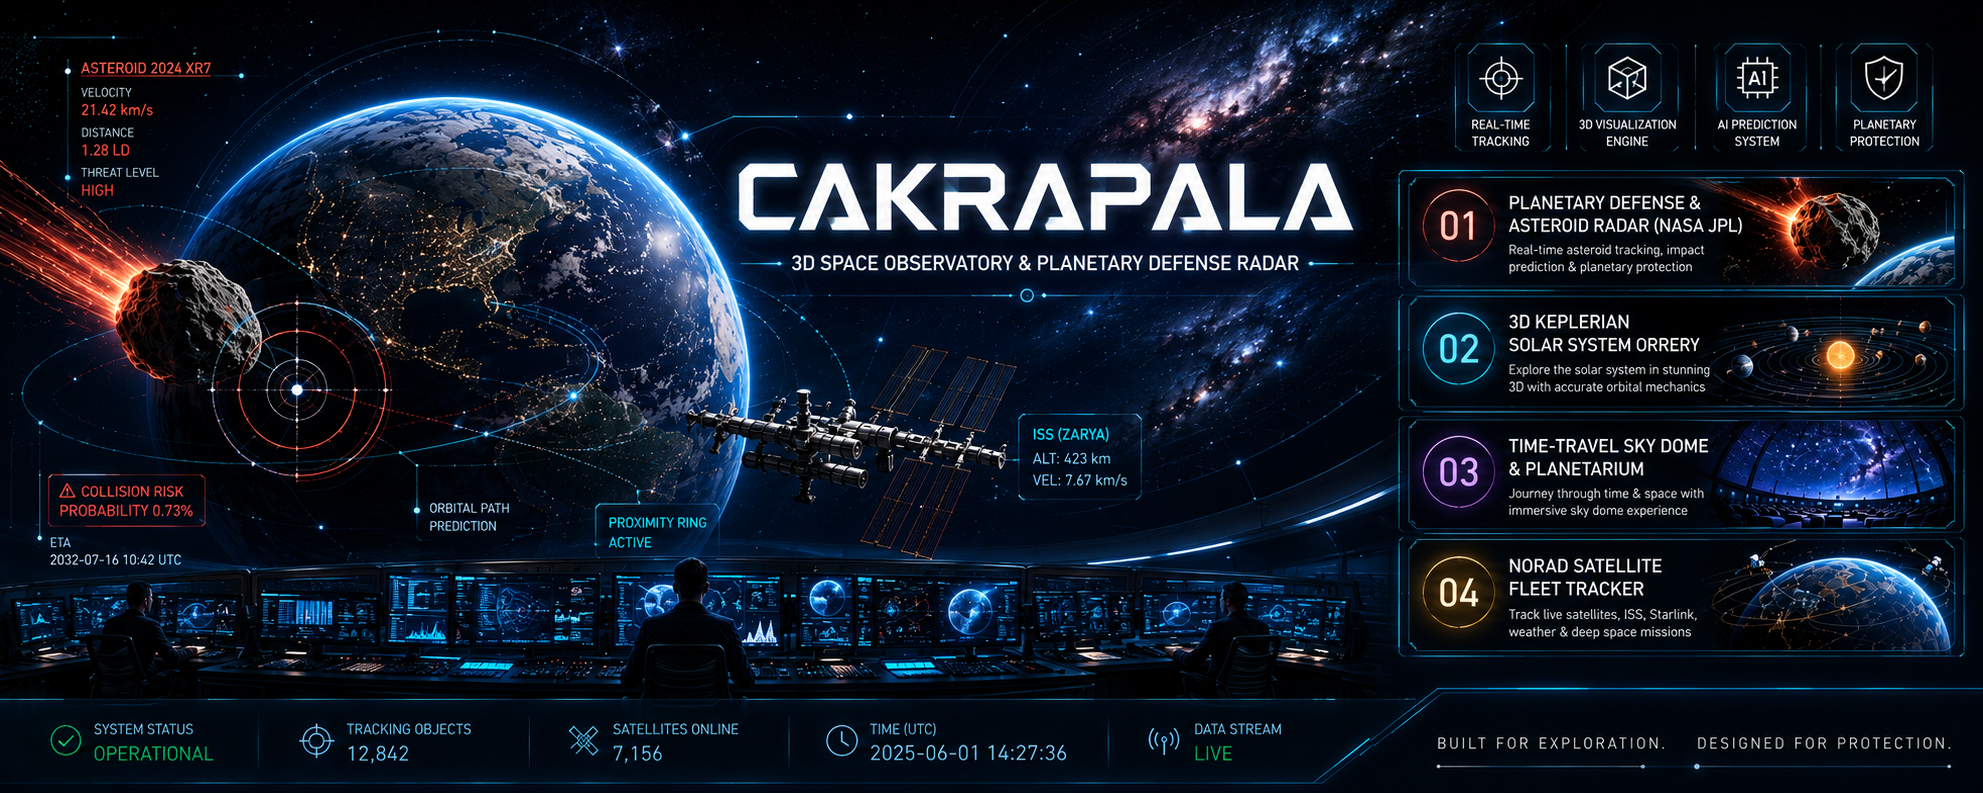
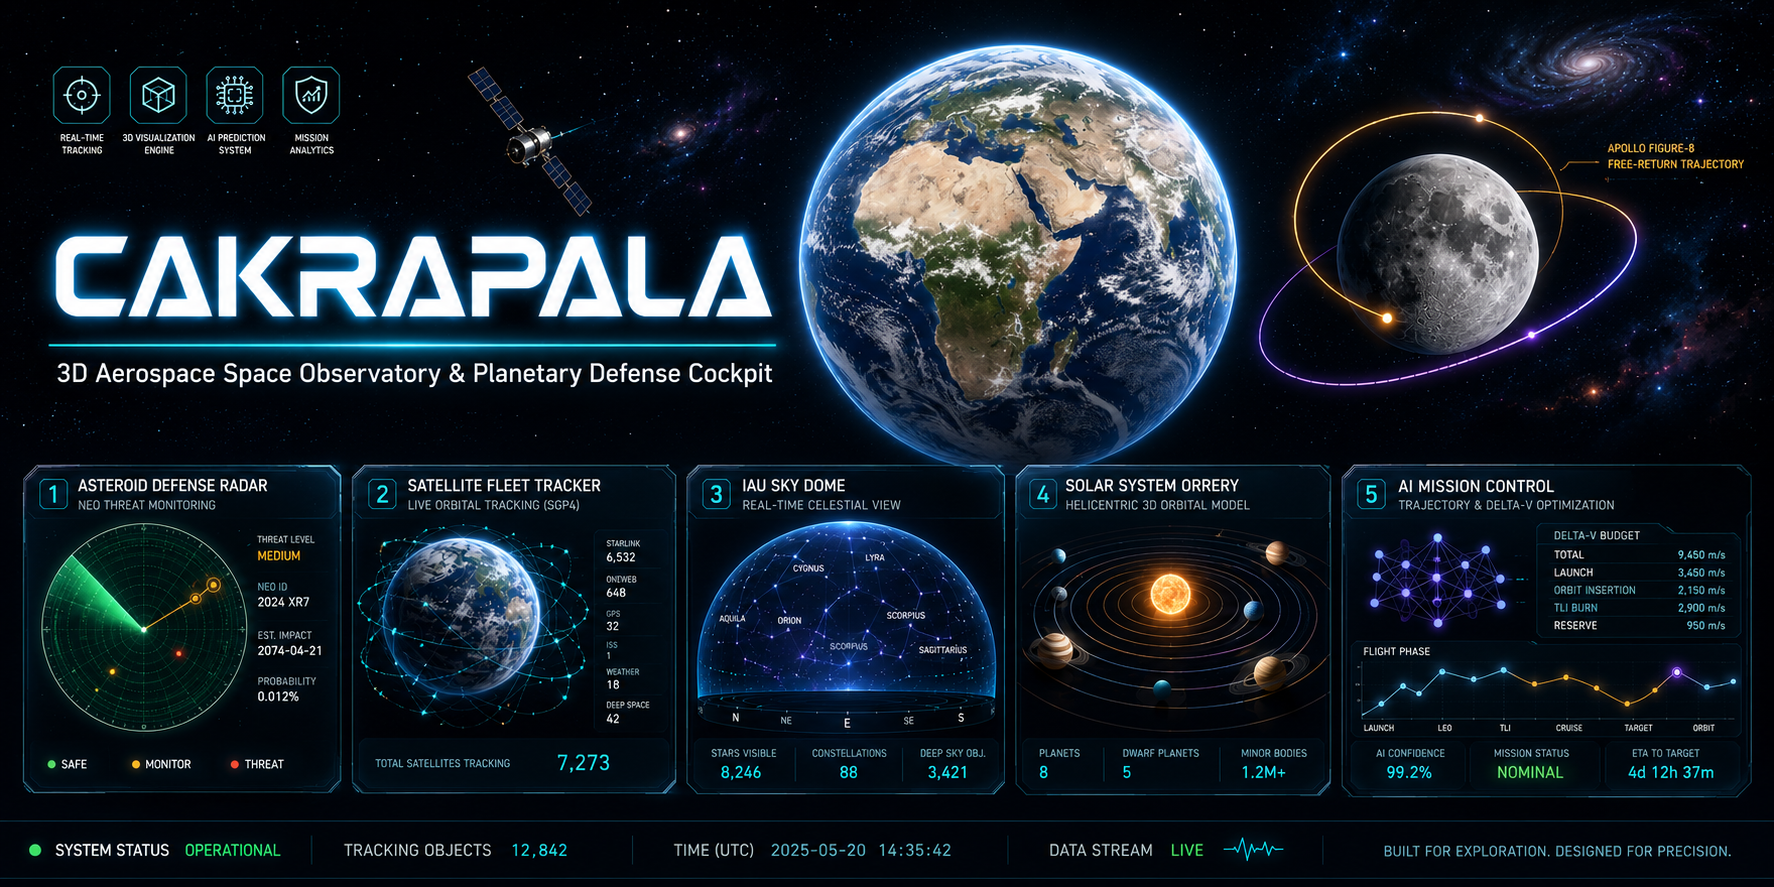
fix(mission-control): sync 3D Earth trajectory colors with altitude geometry and fix Lunar FIT ALL camera framing

diff --git a/components/mission-control/MissionTheater.tsx b/components/mission-control/MissionTheater.tsx
@@ -53,14 +53,14 @@ interface MissionTheaterProps {
 
 // ── Color map by trajectory phase ────────────────────────────────────────────
 const PHASE_COLORS: Record<string, { color: number; hex: string; label: string }> = {
-  launch: { color: 0x00f0ff, hex: "#00f0ff", label: "Launch & Ascent" },
-  ascent: { color: 0x00f0ff, hex: "#00f0ff", label: "Ascent Gravity Turn" },
-  parking_orbit: { color: 0x38bdf8, hex: "#38bdf8", label: "Target Orbit (LEO)" },
-  tli: { color: 0xf59e0b, hex: "#f59e0b", label: "TLI Burn" },
+  launch: { color: 0xef4444, hex: "#ef4444", label: "Pad Liftoff & Atmospheric Ascent" }, // Red (0km Liftoff)
+  ascent: { color: 0xf59e0b, hex: "#f59e0b", label: "Gravity Turn Pitch" },               // Amber (120km Pitchover)
+  parking_orbit: { color: 0x06b6d4, hex: "#06b6d4", label: "Circular Target Orbit" },    // Cyan (550km Circular Orbit)
+  tli: { color: 0xf97316, hex: "#f97316", label: "TLI Burn" },
   outbound: { color: 0xf97316, hex: "#f97316", label: "Outbound TLI Transfer" },
-  lunar_flyby: { color: 0xd946ef, hex: "#d946ef", label: "Perilune Lunar Flyby" },
-  return: { color: 0x6366f1, hex: "#6366f1", label: "Earth Free-Return Leg" },
-  reentry_interface: { color: 0xef4444, hex: "#ef4444", label: "Reentry Corridor" },
+  lunar_flyby: { color: 0xc084fc, hex: "#c084fc", label: "Perilune Lunar Flyby" },
+  return: { color: 0x38bdf8, hex: "#38bdf8", label: "Earth Free-Return Leg" },
+  reentry_interface: { color: 0x60a5fa, hex: "#60a5fa", label: "Reentry Corridor" },
 };
 
 const EARTH_RADIUS_VIS = 6.378137; // 6,378 km in Scene units (1 unit = 1,000 km)
@@ -125,8 +125,26 @@ export default function MissionTheater({
           camera.position.set(0, 26, 0.1);
           controls.target.set(0, 0, 0);
         } else {
-          camera.position.set(190, 500, 0.1);
-          controls.target.set(190, 0, 0);
+          // Lunar polar view: compute bounding center and look down from above
+          const pts: THREE.Vector3[] = [new THREE.Vector3(0, 0, 0)];
+          if (cand && cand.trajectory.length > 0) {
+            cand.trajectory.forEach((pt) => {
+              const rp = eciKmToRendererPosition(pt.positionEciKm);
+              pts.push(new THREE.Vector3(rp.x, rp.y, rp.z));
+            });
+          }
+          if (moonGroupRef.current) {
+            pts.push(moonGroupRef.current.position.clone());
+          }
+          const box = new THREE.Box3().setFromPoints(pts);
+          const center = new THREE.Vector3();
+          box.getCenter(center);
+          const size = new THREE.Vector3();
+          box.getSize(size);
+          const maxDim = Math.max(size.x, size.y, size.z, 60);
+
+          camera.position.set(center.x, center.y + maxDim * 1.5, center.z + 0.1);
+          controls.target.copy(center);
         }
       } else if (mode === "Focus Moon Encounter" && moonGroupRef.current) {
         const mPos = moonGroupRef.current.position;
@@ -154,13 +172,27 @@ export default function MissionTheater({
           }
           controls.target.set(0, 0, 0);
         } else {
-          // Lunar mission framing
-          const moonDist = moonKm
-            ? Math.sqrt(moonKm.x ** 2 + moonKm.y ** 2 + moonKm.z ** 2) * RENDERER_SCALE
-            : 384;
-          const midX = moonDist * 0.5;
-          camera.position.set(midX, moonDist * 0.55, moonDist * 0.95);
-          controls.target.set(midX, 0, 0);
+          // Lunar mission framing: dynamically calculate bounding center of Earth + Moon + Trajectory
+          const pts: THREE.Vector3[] = [new THREE.Vector3(0, 0, 0)];
+          if (cand && cand.trajectory.length > 0) {
+            cand.trajectory.forEach((pt) => {
+              const rp = eciKmToRendererPosition(pt.positionEciKm);
+              pts.push(new THREE.Vector3(rp.x, rp.y, rp.z));
+            });
+          }
+          if (moonGroupRef.current) {
+            pts.push(moonGroupRef.current.position.clone());
+          }
+          const box = new THREE.Box3().setFromPoints(pts);
+          const center = new THREE.Vector3();
+          box.getCenter(center);
+          const size = new THREE.Vector3();
+          box.getSize(size);
+          const maxDim = Math.max(size.x, size.y, size.z, 60);
+
+          // Position camera pulled back at an elevated angle to frame Earth, Moon, and entire Figure-8 loop perfectly
+          camera.position.set(center.x, center.y + maxDim * 0.60, center.z + maxDim * 1.10);
+          controls.target.copy(center);
         }
       }
 

diff --git a/components/mission-control/FlightPhaseGraphic.tsx b/components/mission-control/FlightPhaseGraphic.tsx
@@ -91,26 +91,37 @@ export default function FlightPhaseGraphic({
       // Satellite launch phases
       const defaultSatPhases: ParsedPhase[] = [
         {
-          title: "Ascent Gravity Turn",
+          title: "Pad Liftoff & Ascent",
+          colorName: "Red",
+          hex: "#ef4444",
+          bgHex: "rgba(239, 68, 68, 0.12)",
+          borderHex: "rgba(239, 68, 68, 0.35)",
+          textHex: "text-red-400",
+          description:
+            "Initial vertical liftoff from launch pad penetrating through the dense lower atmosphere.",
+          durationPercent: 20,
+        },
+        {
+          title: "Gravity Turn Pitch",
+          colorName: "Amber",
+          hex: "#f59e0b",
+          bgHex: "rgba(245, 158, 11, 0.12)",
+          borderHex: "rgba(245, 158, 11, 0.35)",
+          textHex: "text-amber-400",
+          description:
+            "Pitch-over maneuver transitioning to horizontal velocity through upper atmosphere.",
+          durationPercent: 45,
+        },
+        {
+          title: "Circular Insertion Orbit",
           colorName: "Cyan",
           hex: "#06b6d4",
           bgHex: "rgba(6, 182, 212, 0.12)",
           borderHex: "rgba(6, 182, 212, 0.35)",
           textHex: "text-cyan-300",
           description:
-            "Initial vertical liftoff transitioning smoothly to a gravity turn pitching toward target launch azimuth.",
+            `Target circular orbit ring at ${candidate.trajectory?.[candidate.trajectory.length - 1]?.altitudeKm || 550} km altitude maintaining continuous orbital speed.`,
           durationPercent: 35,
-        },
-        {
-          title: "Orbit Insertion & Circularization",
-          colorName: "Blue",
-          hex: "#38bdf8",
-          bgHex: "rgba(56, 189, 248, 0.12)",
-          borderHex: "rgba(56, 189, 248, 0.35)",
-          textHex: "text-sky-400",
-          description:
-            "Upper-stage burn circularizing into target orbit altitude maintaining continuous velocity.",
-          durationPercent: 65,
         },
       ];
 

diff --git a/lib/mission-control/aiMissionAnalysis.ts b/lib/mission-control/aiMissionAnalysis.ts
@@ -65,10 +65,13 @@ export function generateDeterministicMissionAnalysis(
   const routeExplanation: string[] = [];
   if (isSatellite) {
     routeExplanation.push(
-      "Ascent Gravity Turn (Cyan): Initial vertical liftoff transitioning smoothly to a gravity turn pitching toward the target launch azimuth."
+      "Pad Liftoff & Ascent (Red): Initial vertical launch from pad climbing through dense lower atmosphere."
     );
     routeExplanation.push(
-      `Circular Insertion Orbit (Light Blue): Target circular orbit ring at ${satInput?.targetAltitudeKm} km altitude maintaining continuous orbital speed.`
+      "Gravity Turn Pitch (Amber): Gravity-turn pitch maneuver transitioning to horizontal velocity through upper atmosphere."
+    );
+    routeExplanation.push(
+      `Circular Insertion Orbit (Cyan): Target circular orbit ring at ${satInput?.targetAltitudeKm} km altitude maintaining continuous orbital speed.`
     );
   } else {
     routeExplanation.push(

diff --git a/lib/mission-control/satelliteLaunchPlanner.ts b/lib/mission-control/satelliteLaunchPlanner.ts
@@ -253,17 +253,12 @@ function generateAscentTrajectory(
     let pitchFromVertical: number; // 0 = vertical, π/2 = horizontal
     let phase: TrajectoryPoint["phase"];
 
-    if (t < 0.05) {
-      // Phase 1: Vertical ascent
-      altFraction = t / 0.05 * 0.02; // slow altitude gain
-      pitchFromVertical = 0;
-      phase = "launch";
-    } else if (t < 0.15) {
-      // Phase 2: Pitch-over
-      const pt = (t - 0.05) / 0.10;
-      altFraction = 0.02 + pt * 0.08;
+    if (t < 0.15) {
+      // Phase 1: Vertical ascent & initial pitch-over
+      const pt = t / 0.15;
+      altFraction = pt * 0.10;
       pitchFromVertical = pt * 0.4; // gradual tilt
-      phase = "ascent";
+      phase = "launch";
 
       if (i === Math.floor(0.10 * N)) {
         const pitchPos = add(launchPos, scale(radialDir, targetAltM * altFraction));
